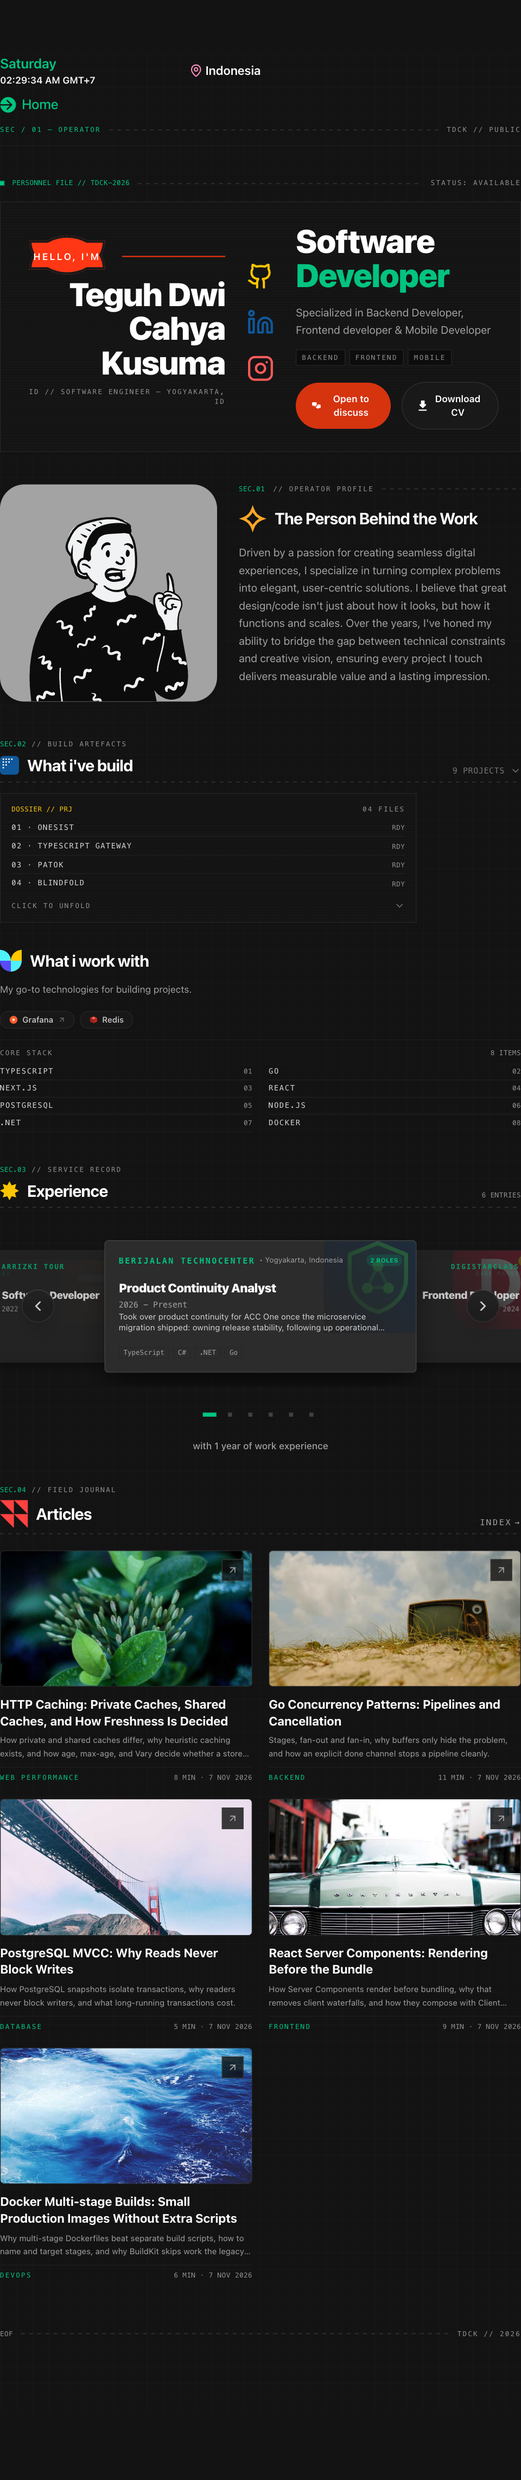
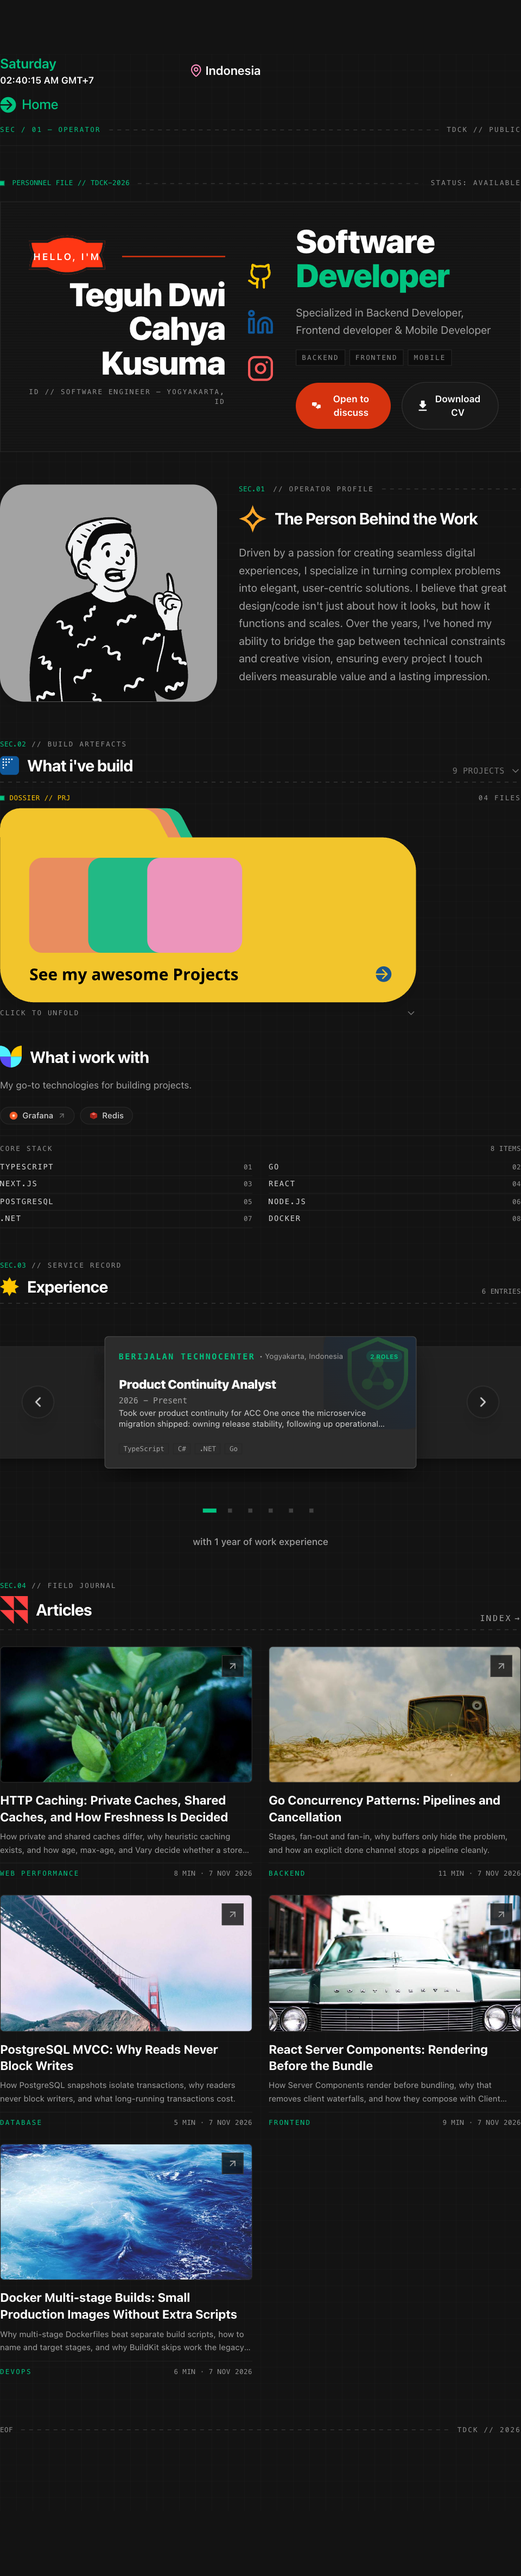
fix(design): restore folder dossier trigger, stabilise carousel, refresh captures

diff --git a/src/components/molecules/project/SimpleProjectList.tsx b/src/components/molecules/project/SimpleProjectList.tsx
@@ -1,5 +1,6 @@
 "use client";
 
+import FolderIcon from "@/assets/svg/folder";
 import ProjectIcon from "@/assets/svg/project-icon";
 import { SectionHeader } from "@/components/molecules/header/SectionHeader";
 import { useProjectCount, useProjects } from "@/hooks/queries/project.wrapper";
@@ -187,51 +188,42 @@ export const SimpleProjectList: React.FC = () => {
             />
           </button>
 
-          {/* Dossier trigger: the old saturated folder artwork replaced by a
-              flat instrument panel that unfolds the project records below. */}
-          <button
-            type="button"
-            onClick={() => setIsExpanded((prev) => !prev)}
-            aria-expanded={isExpanded}
-            title={isExpanded ? "Fold records back" : "Unfold project records"}
-            className="focus-spec plate cornered lift group relative block w-full max-w-[614px] cursor-pointer overflow-hidden p-4 text-left"
-          >
-            <div aria-hidden="true" className="scanlines pointer-events-none absolute inset-0 opacity-60" />
-
-            <div className="relative flex items-center justify-between gap-3">
-              <span className="spec-label spec-label--caution readout">
-                DOSSIER // PRJ
-              </span>
+          {/* Folder trigger: keeps the original dossier artwork (the unfold has
+              to read as files leaving a folder) wrapped in spec framing. */}
+          <div className="space-y-2">
+            <div className="flex items-center justify-between gap-3">
+              <div className="flex items-center gap-2">
+                <span className="led" aria-hidden="true" />
+                <span className="spec-label spec-label--caution readout">
+                  DOSSIER // PRJ
+                </span>
+              </div>
               <span className="spec-label">04 FILES</span>
             </div>
 
-            <div className="relative mt-3 space-y-1.5">
-              {["Onesist", "TypeScript Gateway", "Patok", "Blindfold"].map(
-                (name, i) => (
-                  <div
-                    key={name}
-                    className="flex items-center justify-between gap-3 border-b border-[var(--line-soft)] pb-1 last:border-b-0"
-                  >
-                    <span className="truncate font-mono text-[11px] uppercase tracking-[0.1em] text-neutral-300">
-                      {String(i + 1).padStart(2, "0")} · {name}
-                    </span>
-                    <span className="spec-label readout text-[var(--signal)]">
-                      RDY
-                    </span>
-                  </div>
-                ),
-              )}
-            </div>
+            <button
+              type="button"
+              onClick={() => setIsExpanded((prev) => !prev)}
+              aria-expanded={isExpanded}
+              aria-controls={isExpanded ? "project-previews" : undefined}
+              title={isExpanded ? "Fold records back" : "Unfold project records"}
+              className="focus-spec group block w-full max-w-[614px] cursor-pointer text-left focus:outline-none"
+            >
+              <FolderIcon className="aspect-[614/286] w-full drop-shadow-xl saturate-[0.78] transition-[filter,transform] duration-300 group-hover:-translate-y-1 group-hover:saturate-100" />
+            </button>
 
-            <div className="relative mt-3 flex items-center justify-between">
-              <span className="spec-label">Click to unfold</span>
+            <div className="flex max-w-[614px] items-center justify-between gap-3">
+              <span className="spec-label">
+                {isExpanded ? "Click to fold back" : "Click to unfold"}
+              </span>
               <ChevronDown
-                className={`h-4 w-4 text-neutral-500 transition-transform duration-300 ${
-                  isExpanded ? "rotate-180 text-[var(--signal)]" : ""
+                aria-hidden="true"
+                className={`h-4 w-4 transition-transform duration-300 ${
+                  isExpanded ? "rotate-180 text-[var(--signal)]" : "text-neutral-500"
                 }`}
               />
             </div>
-          </button>
+          </div>
         </div>
 
         {/* Right: What i work with */}

diff --git a/src/components/molecules/experience/SimpleExperienceList.tsx b/src/components/molecules/experience/SimpleExperienceList.tsx
@@ -136,7 +136,7 @@ interface ApiExperienceItem {
 }
 
 export const SimpleExperienceList: React.FC<SimpleExperienceListProps> = ({
-  autoSlide = true,
+  autoSlide = false,
   autoSlideInterval = 4000,
   pauseOnHover = true,
   showArrows = true,
@@ -271,8 +271,8 @@ export const SimpleExperienceList: React.FC<SimpleExperienceListProps> = ({
 
   const getCardStyle = useCallback(
     (offset: number) => {
-      const step = isMobile ? 115 : 205;
-      const farStep = isMobile ? 190 : 365;
+      const step = isMobile ? 130 : 320;
+      const farStep = isMobile ? 240 : 600;
 
       if (offset === 0) {
         return {
@@ -450,7 +450,7 @@ export const SimpleExperienceList: React.FC<SimpleExperienceListProps> = ({
                 }}
               >
                 {/* Company artwork: the stored logo bleeds out of the top-right corner, photos stay a soft wash */}
-                {item.logo ? (
+                {item.logo && isCenter ? (
                   <div className="pointer-events-none absolute -top-6 -right-6 h-32 w-32 sm:h-40 sm:w-40">
                     <img
                       src={item.logo}
@@ -471,7 +471,7 @@ export const SimpleExperienceList: React.FC<SimpleExperienceListProps> = ({
                   </div>
                 )}
 
-                <div className="relative z-10 flex flex-col justify-between h-full w-full">
+                <div className="relative z-10 flex h-full w-full flex-col justify-between">
                   {/* Top row: Company & Period Badge */}
                   <div
                     className={`flex items-center gap-2 ${
@@ -501,7 +501,7 @@ export const SimpleExperienceList: React.FC<SimpleExperienceListProps> = ({
                 </div>
 
                 {/* Middle: Role & Description (Compact spacing) */}
-                <div className={`mt-1.5 mb-1 ${isRight ? "text-right" : "text-left"}`}>
+                <div className={`mt-1.5 mb-1 transition-opacity duration-300 ${isCenter ? "opacity-100" : "opacity-0"} ${isRight ? "text-right" : "text-left"}`}>
                   <h3 className="truncate text-sm font-black tracking-tight text-white sm:text-base md:text-lg lg:text-xl">
                     {item.role}
                   </h3>

diff --git a/docs/design/README.md b/docs/design/README.md
@@ -17,7 +17,7 @@ Each route is filed as `<route>-<width>.png`.
 - Home DOM order: Hero → About → "What i've build" → "What i work with" → Experience → Articles.
 - Colours resolve from `src/styles/tokens.css`; no hex literals remain in the public component set.
 - Reduced motion: transitions ≈0 s, `animation-name: none`, carousel autoplay halted, modal opens without scale.
-- Lighthouse (mobile, production build): `/` = 100 performance / 100 accessibility, `/article` = 90 / 100.
+- Lighthouse (mobile, production build): `/` = 100 performance / 100 accessibility, `/article` = 90 / 100 (re-run after the carousel stabilisation, same numbers).
 
 ## Visual review checklist
 
